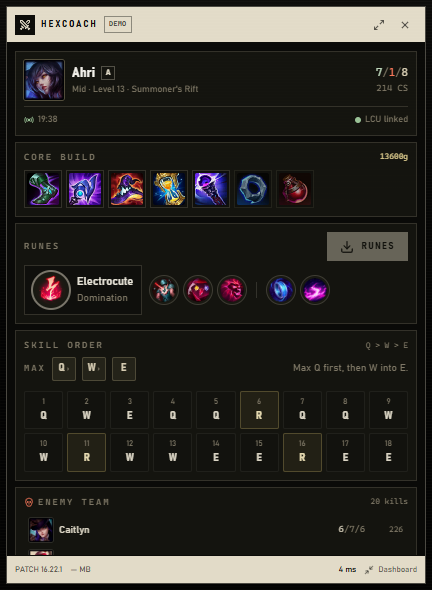
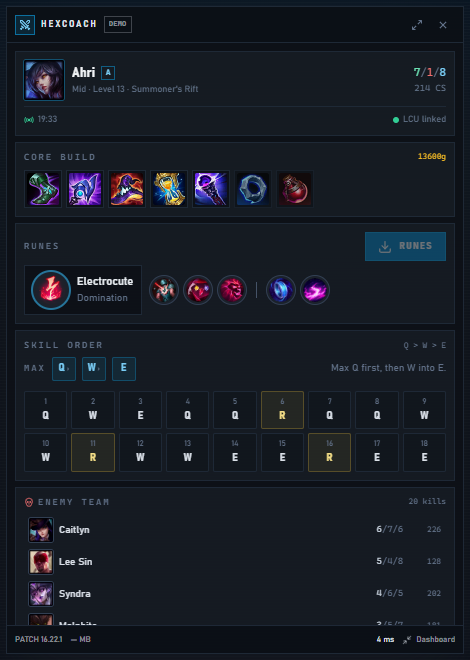
release: v0.1.1 MSI workflow, refreshed screenshots and docs

diff --git a/src/state/store.tsx b/src/state/store.tsx
@@ -417,8 +417,8 @@ export function AppProvider({ children }: { children: ReactNode }) {
               "info",
               event.payload.interactive ? "HUD interactive" : "HUD click-through",
               event.payload.interactive
-                ? "You can now click the in-game HUD. Press Alt+X to pass clicks through again."
-                : "Mouse clicks pass straight through to League. Press Alt+X to interact.",
+                ? "You can now click the in-game HUD. Press Alt+C to pass clicks through again."
+                : "Mouse clicks pass straight through to League. Press Alt+C to interact.",
             );
           }
         }),

diff --git a/README.md b/README.md
@@ -6,6 +6,16 @@ HexCoach reads the local Riot Live Client API and League Client API, then shows 
 
 > HexCoach isn't endorsed by Riot Games and doesn't reflect the views or opinions of Riot Games or anyone officially involved in producing or managing Riot Games properties. Riot Games and all associated properties are trademarks or registered trademarks of Riot Games, Inc.
 
+## Download
+
+Every release ships a ready-to-install Windows MSI — no compiler or build tools required.
+
+1. Open [Releases](https://github.com/adamhalvo123/hexcoach/releases/latest) and download `HexCoach_<version>_x64_en-US.msi`.
+2. Run the MSI and follow the installer (per-user install, no admin prompt).
+3. Launch **HexCoach** from the Start menu.
+
+Windows SmartScreen may warn about an unsigned build — choose **More info** → **Run anyway**. Windows 11 already includes the WebView2 runtime; on Windows 10 the installer will prompt to fetch it if it is missing.
+
 ## Screenshots
 
 | Live game | Draft helper |
@@ -16,30 +26,41 @@ HexCoach reads the local Riot Live Client API and League Client API, then shows 
 | --- | --- |
 | ![Builds and runes](docs/builds.png) | ![Arena Lab](docs/arena.png) |
 
-| Settings | Compact overlay |
+| In-game HUD | Compact overlay |
 | --- | --- |
-| ![Settings](docs/settings.png) | ![Compact overlay](docs/compact.png) |
+| ![In-game HUD](docs/hud.png) | ![Compact overlay](docs/compact.png) |
+
+| Settings |
+| --- |
+| ![Settings](docs/settings.png) |
 
 ## Design
 
-The interface is a monochrome, industrial hazard-label system: warm black paper stock (`#0a0a08`), cream label bands (`#e9e2ce`), heavy condensed uppercase type, 2px corners, diagonal hazard stripes and barcode accents. Cream surfaces carry black type; data panels stay dark so champion art and item icons do the talking.
+HexCoach ships three themes, switchable live in Settings and persisted locally:
 
-All colours come from the Tailwind theme in `tailwind.config.js` and the component classes in `src/styles.css`, so the whole app can be re-skinned from two files.
+- **Dark** (default) — deep navy-black surfaces (`#090d16`), layered panels (`#161b22`), slate type and cyan/gold accents.
+- **Light** — cool slate paper (`#f1f5f9`) with white panels and inverted slate type for daytime use.
+- **OLED** — true black (`#000000`) chrome and near-black panels for OLED displays and low-light play.
+
+Layout is a compact, data-dense overlay language: hairline borders, condensed uppercase labels, monospace numerics and restrained accent colour, so champion art and item icons stay the loudest thing on screen. The in-game HUD follows the selected theme automatically.
+
+Every colour is a CSS token block in `src/styles.css` (`[data-theme="dark"]`, `[data-theme="light"]`, `[data-theme="oled"]`) mapped into Tailwind utilities by `tailwind.config.js`, so a full reskin is one token set plus the shared component classes.
 
 ## Features
 
 - **Live game HUD** — polls `https://127.0.0.1:2999/liveclientdata/allgamedata` every ~2 seconds, tolerates the self-signed local certificate, and detects champion, role, game mode, scoreboard, items, events, Arena augments and ARAM / ARAM Mayhem state.
 - **ARAM / Mayhem** — Howling Abyss balance modifiers (damage dealt/taken, healing, shielding, tenacity, ability haste, regen), Guardian starter builds, ARAM rune pages and a curated ARAM Mayhem augment tier list when Mayhem is detected.
-- **Click-through in-game HUD** — a separate transparent `hud-overlay` window shows enemy respawn timers, enemy Flash cooldowns (300s, or 255s with Cosmic Insight), the next recommended item against your gold and inventory, skill max order and active augments. It starts click-through; `Alt+X` toggles interactive mode.
+- **Click-through in-game HUD** — a separate transparent `hud-overlay` window shows enemy respawn timers, enemy Flash cooldowns (300s, or 255s with Cosmic Insight), the next recommended item against your gold and inventory, skill max order and active augments. It starts click-through; `Alt+C` toggles interactive mode so you can click the HUD without moving your cursor away from the fight.
 - **Profile** — resolves your Riot ID to a PUUID, shows Solo/Duo and Flex rank, LP, total win rate, the last ten Match-v5 games and a **Frequent teammates** table with shared wins, losses and win rate. The Rust backend aggregates everything; React only receives the summary.
 - **Draft helper** — counters, synergies and estimated win-rate heuristics, plus a live champ-select mirror from the local League Client API.
 - **Builds & runes** — current patch builds for Summoner's Rift, ARAM and Arena. The build card shows the live Emerald+ win/pick/ban rate and tier when the provider is reachable, curated items and runes otherwise, a start → core → situational purchase timeline, full rune tree with Data Dragon icons, mode-aware summoner spells, an 18-level skill order, and strong/weak matchups. A role switcher exposes off-meta builds.
 - **Arena Lab** — searchable augment library with tier list, rarity filters, champion-class synergy scoring and active-game augment detection. If CommunityDragon is unreachable, a bundled 34-augment curated library keeps the page useful offline.
 - **One-click rune import** — writes the recommended page into the League client through the local LCU API (`127.0.0.1:<lockfile port>`). No Riot API key needed.
-- **Compact overlay** — `432 × 590` always-on-top HUD with core items, runes, skill order and fed enemies.
+- **Compact overlay** — `432 × 590` always-on-top HUD with core items, runes, skill order and fed enemies, toggled with `Alt+X`.
 - **Local-first data** — Data Dragon and CommunityDragon files plus images are cached per patch in the app cache directory.
 - **Performance HUD** — RAM, local API latency, patch, cache size and cached image progress.
-- **Global hotkeys** — compact mode, click-through, show/hide and the in-game HUD toggle, registered by Rust.
+- **Global hotkeys** — registered by Rust through the `global-shortcut` plugin, so they work even while League owns keyboard focus: `Alt+X` compact / full overlay, `Alt+Z` dashboard click-through, `Alt+H` show / hide HexCoach, `Alt+C` in-game HUD interaction. All four are rebindable in Settings and duplicates are rejected before saving.
+- **Themes** — Dark, Light and OLED palettes applied live through CSS tokens, including the separate in-game HUD window.
 - **Server-side Riot API proxy** — Account-v1, League-v4, Match-v5 and Summoner-v4 calls are made by Rust. The key is read from local Settings or the build-time `RIOT_API_KEY` and only ever attached as `X-Riot-Token` on the backend.
 
 ## Stack
@@ -92,10 +113,10 @@ http://127.0.0.1:1420/?hud=1&mode=mayhem
 ### Production build
 
 ```powershell
-npm run tauri:build
+npm run tauri:build -- --bundles msi
 ```
 
-Installers are written to `src-tauri/target/release/bundle/`.
+The MSI is written to `src-tauri/target/release/bundle/msi/`. Omit `--bundles msi` to build every bundle target enabled in `src-tauri/tauri.conf.json`.
 
 ### Data validation
 
@@ -190,7 +211,7 @@ The `hud-overlay` window is a separate Tauri window configured in `src-tauri/tau
 - loads `index.html?hud=1`
 - created hidden and shown only while `liveGame.active` is true and the **In-game HUD** setting is enabled
 - starts with `set_ignore_cursor_events(true)` so mouse clicks pass through to League
-- `set_overlay_clickthrough(ignore)` calls `window.set_ignore_cursor_events(ignore)`; the default `Alt+X` global shortcut toggles interactive vs click-through and emits `hud-clickthrough-changed`
+- `set_overlay_clickthrough(ignore)` calls `window.set_ignore_cursor_events(ignore)`; the default `Alt+C` global shortcut toggles interactive vs click-through and emits `hud-clickthrough-changed`
 
 The HUD intentionally stays minimal: enemy respawn timers, clickable enemy summoner-spell timers, the next affordable build item, skill max order and active Arena / Mayhem augments.
 
@@ -200,7 +221,23 @@ HexCoach labels curated numbers **EST. WR**. They are derived from the meta scor
 
 ## Releases
 
-`.github/workflows/release.yml` builds the Windows NSIS installer with the official [`tauri-action`](https://github.com/tauri-apps/tauri-action) on every push to `main`, on `v*` tags, and on manual dispatch. The workflow creates a GitHub Release and attaches the generated `.exe` installer (plus `.msi` if you extend the bundle list).
+Every push to `main`, every `v*` tag and each manual dispatch runs `.github/workflows/release.yml`. The workflow builds on `windows-latest` with the official [`tauri-action`](https://github.com/tauri-apps/tauri-action), bundles an MSI (`--bundles msi`) and publishes it as the downloadable asset on a GitHub Release tagged `v<version>`.
+
+The version comes from `src-tauri/tauri.conf.json` (`__VERSION__`), so a release only needs matching version bumps in:
+
+- `package.json`
+- `package-lock.json` (both the root `version` and `packages[""]` entry)
+- `src-tauri/Cargo.toml`
+- `src-tauri/tauri.conf.json`
+
+Then push to `main`:
+
+```powershell
+git commit -am "release: v0.1.2"
+git push origin main
+```
+
+The release appears with `HexCoach_<version>_x64_en-US.msi` attached — users download and run it, with no compilation step. `workflow_dispatch` re-runs the build for an existing version if a release needs to be rebuilt.
 
 To publish the repository for the first time:
 
@@ -215,8 +252,9 @@ Settings and the Data Dragon cache live in your app config/cache directories. No
 
 - Demo mode (default on) shows a realistic fake game so the UI is explorable without League running.
 - Turn demo mode off to read the real Live Client and League Client APIs.
-- Global hotkeys use Tauri accelerator syntax, e.g. `CommandOrControl+Shift+C`.
-- The in-game HUD toggle defaults to `Alt+X` and works globally, even while League has focus.
+- Appearance switches between **Dark**, **Light** and **OLED** instantly; the in-game HUD window follows the same theme.
+- Global hotkeys use Tauri accelerator syntax, e.g. `CommandOrControl+Shift+C`. Defaults are `Alt+X` (compact), `Alt+Z` (dashboard click-through), `Alt+H` (show / hide) and `Alt+C` (in-game HUD interaction), and they work globally even while League has focus.
+- Saving hotkeys re-registers them immediately; Windows conflicts (an accelerator already owned by another app) are reported per binding in Settings instead of failing silently.
 - The Riot key field is write-only: it is blank on load, and blank means "keep the saved key".
 
 ## License
